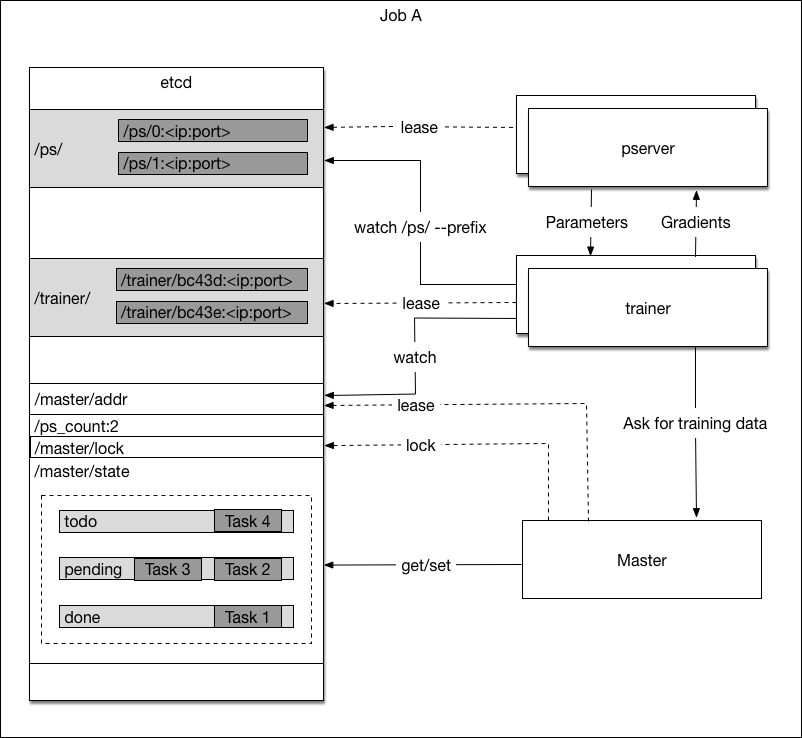
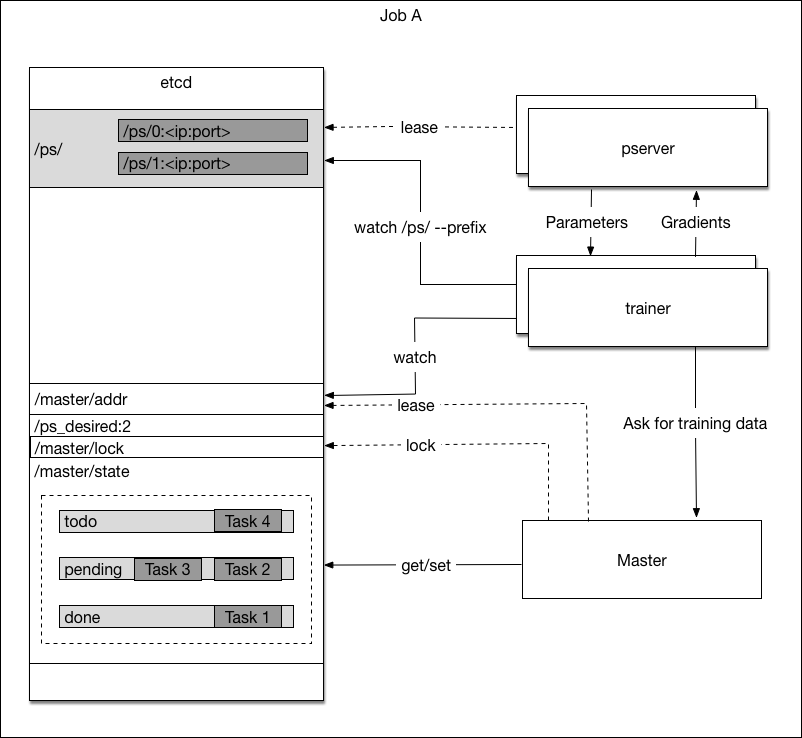
updated doc with implementation change of trainer

Changed region(s): [[0.0312, 0.3428, 0.4364, 0.4675], [0.4988, 0.4051, 0.5611, 0.4363], [0.0935, 0.561, 0.1559, 0.5921]]

diff --git a/doc/design/cluster_train/README.md b/doc/design/cluster_train/README.md
@@ -54,17 +54,18 @@ The life cycle of a single task is illustrated below:
 <img src="src/paddle-task-states.png"/>
 
 1. When a new pass of training starts, all tasks will be placed in the todo queue.
-1. The master server will dispatch few tasks to each trainer at a time, puts them in the pending queue and waits for completion.
-1. The trainer will work on its tasks and tell the master server once a task is completed. The master server will dispatch a new task to that trainer.
-1. If a task timeout. the master server will move it back to the todo queue. The timeout count will increase by one. If the timeout count is above a threshold, the task is likely to cause a trainer to crash, so it will be discarded.
+1. Upon trainer requests for new task, the master server will dispatch a task from todo queue to it, put the task in the pending queue and wait for completion.
+1. The trainer will work on its task and tell the master server once the task is completed and ask for new task. The master server will dispatch a new task to that trainer.
+1. If a task fails for any reason in trainer, or takes longer than a specific period of time,  the master server will move the task back to the todo queue. The timeout count for that task will increase by one. If the timeout count is above a threshold, the task is likely to cause a trainer to crash, then it will be discarded.
 1. The master server will move completed task to the done queue. When the todo queue is empty, the master server will start a new pass by moving all tasks in the done queue to todo queue and reset the timeout counter of all tasks to zero.
 
 ### Trainer Process
 
 The trainer process will:
 
-- Receive tasks from the master.
-- Work on the tasks: calculate and upload gradient to parameter servers, and update local model by downloading new parameters from parameter servers.
+- Request tasks from the master.
+- Work on the tasks
+- Upload gradient to parameter servers, and update local model by downloading new parameters from parameter servers.
 
 ### Parameter Server Process
 
@@ -119,8 +120,8 @@ When the master is started by the Kubernetes, it executes the following steps at
 
 1. Grabs a unique *master* lock in etcd, which prevents concurrent master instantiations.
 1. Recovers the task queues from etcd if they already exist, otherwise, the master will create them.
-1. Watches the trainer prefix keys `/trainer/` on etcd to find the live trainers.
-1. Starts dispatching the tasks to the trainers, and updates task queue using an etcd transaction to ensure lock is held during the update.
+1. Write its ip address to */master/addr* so that trainers can discover it.
+1. Listens to trainers' request of task, dispatch one upon request, and updates task queue using an etcd transaction to ensure lock is held during the update.
 
 When the master server process is dead for any reason, Kubernetes will restart it. It will be online again with all states recovered from etcd in few minutes.
 
@@ -128,13 +129,11 @@ When the master server process is dead for any reason, Kubernetes will restart i
 
 When the trainer is started by the Kubernetes, it executes the following steps at startup:
 
-1. Watches the available parameter server prefix keys `/ps/` on etcd and waits until the count of parameter servers reaches the desired count.
-1. Generates a unique ID, and sets key `/trainer/<unique ID>` with its contact address as value. The key will be deleted when the lease expires, so the master will be aware of the trainer being online and offline.
-1. Waits for tasks from the master to start training.
+1. Watches the available parameter server prefix keys `/ps/` on etcd and waits until the count of parameter servers reaches the desired count */ps_desired*.
+1. Finds and watches */master/addr* to get master's address.
+1. Requests for tasks from the master to start training.
 
-If trainer's etcd lease expires, it will try set key `/trainer/<unique ID>` again so that the master server can discover the trainer again.
-
-When a trainer fails, Kuberentes would try to restart it. The recovered trainer would fetch tasks from the TODO queue and go on training.
+When a trainer fails, Kuberentes would try to restart it. The recovered trainer would fetch tasks from master and go on training.
 
 ### Parameter Server Process
 
